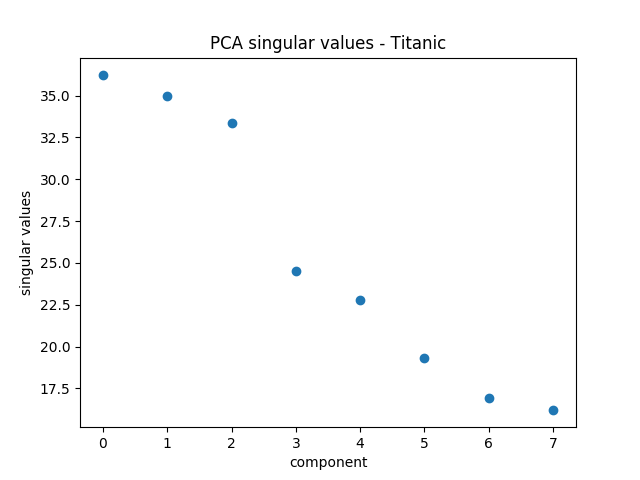
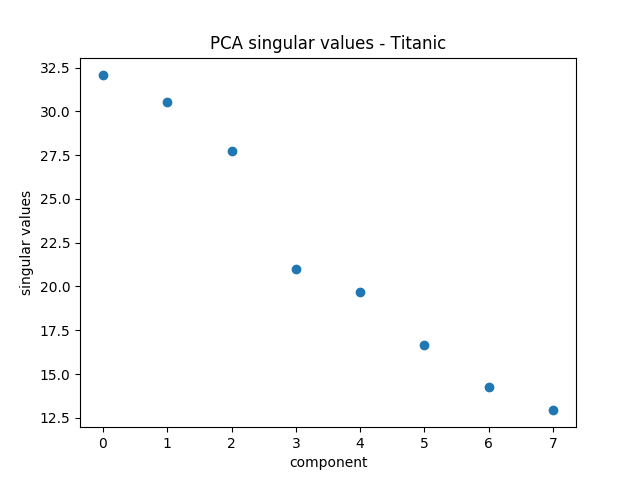
added NN runs on ICA transformations for various component sizes, saved as png in file

diff --git a/dim_reduc_titanic.py b/dim_reduc_titanic.py
@@ -2,6 +2,7 @@ from sklearn.decomposition import PCA, FastICA
 from sklearn.random_projection import GaussianRandomProjection
 from sklearn.feature_selection import RFE
 from sklearn.linear_model import LogisticRegression
+from sklearn.neural_network import MLPClassifier
 from data import load_tennis_data, load_titanic_data
 import matplotlib.pyplot as plt
 import numpy.random as random
@@ -9,11 +10,16 @@ import numpy as np
 
 # IMPORT DATA
 
-#ten_X_train, ten_y_train, ten_X_test, ten_y_test = load_tennis_data()
 tit_X_train, tit_y_train, tit_X_test, tit_y_test = load_titanic_data()
-#ten_df = load_tennis_data(form="original df")
+
+# Split off validation set from training set
+val_cutoff = 3*len(tit_X_train)//4
+tit_X_val = tit_X_train[val_cutoff:]
+tit_y_val = tit_y_train[val_cutoff:]
+tit_X_train = tit_X_train[:val_cutoff]
+tit_y_train = tit_y_train[:val_cutoff]
+
 tit_df = load_titanic_data(form="original df")
-#ten_features, ten_labels = load_tennis_data(form="df")
 tit_features, tit_labels = load_titanic_data(form="df")
 
 tit_cols = tit_features.columns
@@ -31,6 +37,7 @@ plt.title("PCA singular values - Titanic")
 plt.ylabel("singular values")
 plt.xlabel("component")
 plt.savefig("pca_titanic.png")
+plt.clf()
 
 pca_matrix = np.array(pca.components_)
 print(pca_matrix.shape)
@@ -41,14 +48,9 @@ print("\n ICA \n")
 
 ica_models = []
 for n in range(1,9):
-    #print("ICA with " + str(n) + " components")
-    ica = FastICA(n_components=n)
-    ica.fit(tit_X_train)
-    ica.transform(tit_X_train)
+    # max iter set high because of convergence warnings
+    ica = FastICA(n_components=n, max_iter=1000000)
     ica_models.append(ica)
-for i in range(8):
-    ica_matrix = np.array(ica_models[i].mixing_)
-    print(ica_matrix.shape)
 
 # RCA
 
@@ -79,4 +81,22 @@ for i,model in zip(range(len(rfe_models)),rfe_models):
     print(tit_cols[order][:i+1])
 
 
+# ICA --> Neural Net
 
+scores = []
+nn = MLPClassifier(batch_size=16, hidden_layer_sizes=7, alpha=0.001, learning_rate_init=0.01, shuffle=False, random_state=20)
+for ica_model in ica_models:
+    ica_X_train = ica_model.fit_transform(tit_X_train)
+    print(ica_X_train.shape)
+    nn.fit(ica_X_train, tit_y_train)
+
+    ica_X_val = ica_model.fit_transform(tit_X_val)
+    score = nn.score(ica_X_val, tit_y_val)
+    print("val set score", score)
+    scores.append(score)
+
+plt.scatter([1,2,3,4,5,6,7,8], scores)
+plt.title("NN validation set score vs number of ICA components")
+plt.xlabel("number of ICA components (minus 1)")
+plt.ylabel("Neural Net val set accuracy")
+plt.savefig("ica_to_nn_scores_titanic.png")
